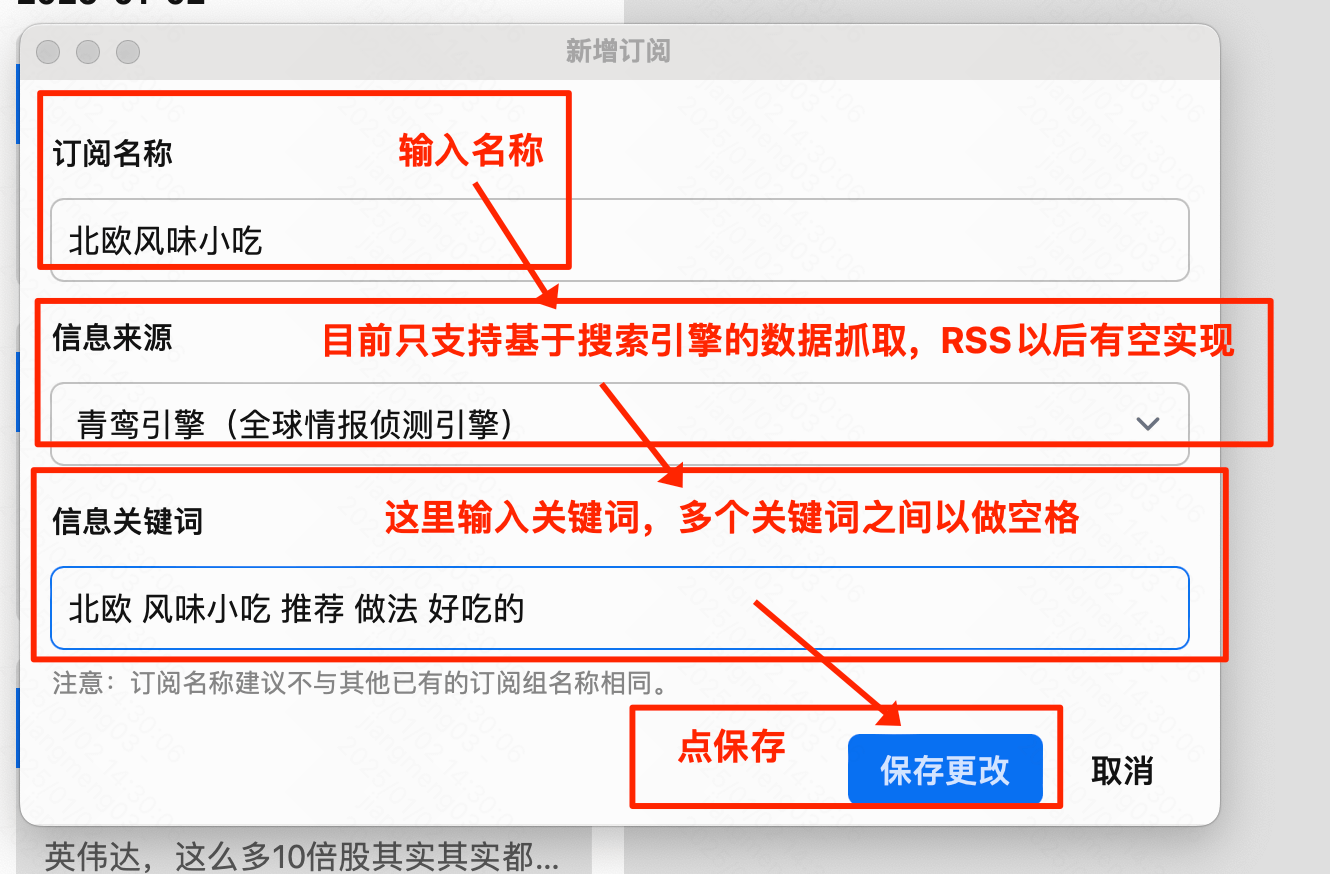
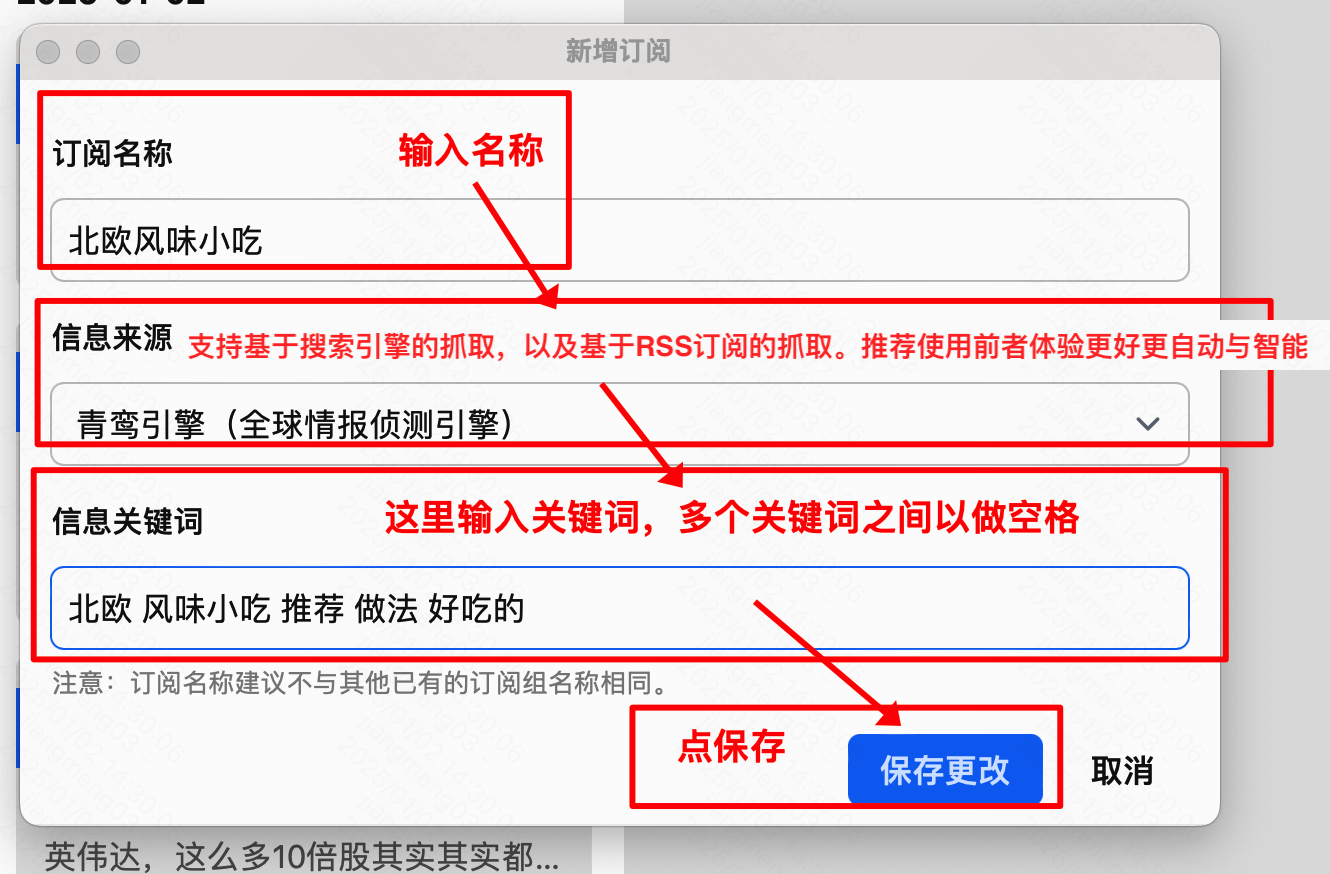
docs: update README files with enhanced feature descriptions

diff --git a/README.md b/README.md
@@ -26,11 +26,13 @@
 
 
 ## What's Saga Reader
-Saga Reader is an AI-driven think tank-style reader that automatically retrieves information from the internet based on user-specified topics and preferences. It uses cloud or local large models to summarize and provide guidance, and it includes an AI-driven interactive companion reading function, allowing you to discuss and exchange ideas with AI about the content you've read.
+**Saga Reader** is an AI-driven think tank-style reader that automatically retrieves information from the internet based on user-specified topics and preferences. It uses cloud or local large models to summarize and provide guidance, and it includes an AI-driven interactive companion reading function, allowing you to discuss and exchange ideas with AI about the content you've read.
 
-Saga Reader is completely free and open-source, meaning all data is securely stored on your own computer and is not controlled by third-party service providers. Additionally, you can manage your subscription keywords based on your interests and preferences without being disturbed by advertisements and commercialized content.
+**Saga Reader** is completely free and open-source, meaning all data is securely stored on your own computer and is not controlled by third-party service providers. Additionally, you can manage your subscription keywords based on your interests and preferences without being disturbed by advertisements and commercialized content.
 
-Download it from [website](https://aiqino.netlify.app?s=github_download)!
+❤ Like **Saga Reader**? Star it 🌟 or [Sponsor the Developer](https://github.com/sponsors/sopaco)! ❤
+
+⏬ Download it now from the [official website](https://aiqino.netlify.app?s=github_download)! Compatible with Windows, Mac, and Linux systems, it runs very smoothly on old computers.
 
 **Thanks to the kind people**
 
@@ -38,19 +40,19 @@ Download it from [website](https://aiqino.netlify.app?s=github_download)!
 
 **Note: Installation and Usage Instructions**
 
-For the installation precautions and the configuration method of the large language model required for the first use, please refer to the [**Help Document**](./docs/how-to-use-en.md).
+📖 For the installation precautions and the configuration method of the large language model required for the first use, please refer to the [**Help Document**](./docs/how-to-use-en.md).
 
-## Snapshots
+# 🌠 Snapshots
 
 ![snapshot-glance](docs/assets/snapshot-glance.webp)
 
-## How it works
+# 🧠 How it works
 
 [![Ask DeepWiki](https://deepwiki.com/badge.svg)](https://deepwiki.com/sopaco/saga-reader)
 
 ![archi-diags-en.png](docs/assets/archi-diags-en.png)
 
-## Key Features
+# 🌟 Key Features
 
 - **Intelligent Content Subscription**: An interest-based content generation engine that supports flexible content subscription settings according to user interests. Users only need to define keywords of interest to independently search for relevant information across the entire network without complex subscription operations.
 - **Efficient Information Retrieval**: A fully automated content engine implemented purely in Rust. It supports multiple retrieval modes such as search and RSS, enabling efficient collection of global internet information.
@@ -63,7 +65,7 @@ For the installation precautions and the configuration method of the large langu
 - **Flexible Reading Experience**: It offers flexible article reading methods. Users can choose to read the full content using the built - in article viewer or switch to their preferred browser for browsing.
 - **Efficient Search and Background Updates**: Supports article search and can silently update content in the background. Relying on Rust technology, it has extremely low memory usage (only 10MB) and excellent operating performance.
 
-## Development
+# 🖥 Development
 ### Prerequisites
 - [**Rust**](https://www.rust-lang.org)
 - [**Bun**](https://bun.sh) (recommended) or NodeJS
@@ -120,7 +122,7 @@ The installation is straight forward, just follow the steps below:
     ```
 <br>
 
-### Monorepo App Architecture
+# 📝 Monorepo App Architecture
 
 We use a combination of Rust, Svelte (SvelteKit), Tauri, SeaORM, SqlLite, TailwindCSS throughout this monorepo.
 
@@ -159,7 +161,7 @@ We use a combination of Rust, Svelte (SvelteKit), Tauri, SeaORM, SqlLite, Tailwi
 +----------------------+       +-----------------------+
 ```
 
-### Contribute
+# 🤝 Contribute
 
 Help improve Saga Reader by reporting bugs or submitting feature requests through [GitHub Issues](https://github.com/sopaco/saga-reader/issues).
 
@@ -173,7 +175,7 @@ Similarly, there are some features in wunderlist that need to be improved.
 
 If you enjoy using this app, consider supporting its development by donating through [GitHub Sponsors](https://github.com/sponsors/sopaco), [Paypal](https://paypal.me/skyronj), or [Alipay](https://aiqino.netlify.app/uprise-assets/alipay.jpg).
 
-### Developed with
+# ⚛ Developed with
 
 - [Rust](https://github.com/rust-lang/rust)
 - [Tauri](https://github.com/tauri-apps/tauri)
@@ -182,10 +184,10 @@ If you enjoy using this app, consider supporting its development by donating thr
 - [Skeleton](https://github.com/skeletonlabs/skeleton)
 - [sea-orm](https://github.com/SeaQL/sea-orm)
 
-### License
-MIT, A copy of the license is provided in the [LICENSE](./LICENSE) file.
+# 🪪 License
+**MIT**. A copy of the license is provided in the [LICENSE](./LICENSE) file.
 
-### About Me
+# 👨 About Me
 
 > 🚀 Help me develop this software better by [sponsoring on GitHub](https://github.com/sponsors/sopaco)
 

diff --git a/README_zh.md b/README_zh.md
@@ -23,28 +23,30 @@
 
 > 🚀 通过 [在 GitHub 上赞助](https://github.com/sponsors/sopaco)让这个软件更好的发展。
 
-## 麒睿智库是什么
-麒睿智库(Saga Reader) 是一个AI驱动的智库式阅读器，根据用户指定的主题和偏好关键词自动从互联网上检索信息。它使用云端或本地大型模型进行总结和提供指导，并包括一个AI驱动的互动阅读伴读功能，允许您与AI讨论和交换阅读内容的想法。
+# 麒睿智库是什么
+📖 **麒睿智库(Saga Reader)** 是一个AI驱动的智库式阅读器，根据用户指定的主题和偏好关键词自动从互联网上检索信息。它使用云端或本地大型模型进行总结和提供指导，并包括一个AI驱动的互动阅读伴读功能，允许您与AI讨论和交换阅读内容的想法。
 
-麒睿智库 完全免费和开源，这意味着所有数据都安全地存储在您自己的计算机上，不受第三方服务提供商的控制。此外，您可以根据自己的兴趣和偏好管理订阅关键词，而不会受到广告和商业化内容的打扰。
+🆓 **麒睿智库** 完全免费和开源，这意味着所有数据都安全地存储在您自己的计算机上，不受第三方服务提供商的控制。此外，您可以根据自己的兴趣和偏好管理订阅关键词，而不会受到广告和商业化内容的打扰。
 
-从[官方网站](https://aiqino.netlify.app?s=github_download)下载！
+❤ 喜欢 **麒睿智库**? 点亮小星星 🌟 或 [赞助开发者](https://github.com/sponsors/sopaco)! ❤
+
+⏬ 现在就从[官方网站](https://aiqino.netlify.app?s=github_download)下载！兼容 Windows、Mac 和 Linux 系统，在老电脑上也非常流畅。
 
 **注意：安装与使用说明**
 
-安装注意事项与初次使用需要的大模型配置方法，详见[**帮助文档**](./docs/how-to-use-zh.md)。
+📖 安装注意事项与初次使用需要的大模型配置方法，详见[**帮助文档**](./docs/how-to-use-zh.md)。
 
-## 截图
+# 🌠 界面
 
 ![snapshot-glance](docs/assets/snapshot-glance.webp)
 
-## 工作原理
+# 🧠 工作原理
 
 [![Ask DeepWiki](https://deepwiki.com/badge.svg)](https://deepwiki.com/sopaco/saga-reader)
 
 ![archi-diags-en.png](docs/assets/archi-diags-en.png)
 
-## 功能与特性
+# 🌟 功能与特性
 
 - **智能内容订阅**：基于兴趣的内容生成引擎，支持根据用户兴趣灵活设置内容订阅。用户只需定义感兴趣的关键词，即可全网自主搜索相关信息，无需复杂的订阅操作。
 - **高效信息抓取**：采用纯 Rust 实现的全自动内容引擎，支持搜索和 RSS 等多种抓取模式，可高效采集全球互联网信息。
@@ -57,7 +59,7 @@
 - **灵活阅读体验**：提供灵活的文章阅读方式，用户可选择使用内置文章查看器阅读完整内容，也能切换到偏好的浏览器进行浏览。
 - **高效搜索更新**：支持文章搜索功能，可在后台静默更新内容。依托 Rust 技术，内存占用极小（仅 10MB），运行性能卓越。
 
-## 开发
+# 🖥 开发
 ### 前提条件
 - [**Rust**](https://www.rust-lang.org)
 - [**Bun**](https://bun.sh) (推荐) or NodeJS
@@ -114,7 +116,7 @@
     ```
 <br>
 
-### 核心模块说明
+# 📝 核心模块说明
 
 项目使用了Rust、Svelte（SvelteKit）、Tauri、SeaORM、SqlLite、TailwindCSS等技术。
 
@@ -152,7 +154,7 @@
 +----------------------+       +-----------------------+
 ```
 
-### 贡献
+# 🤝 贡献
 
 通过[GitHub Issues](https://github.com/sopaco/saga-reader/issues)报告错误或提出功能请求，帮助使麒睿智库变得更好。
 
@@ -165,7 +167,7 @@
 
 如果您喜欢使用这个应用程序，请考虑通过[GitHub赞助商](https://github.com/sponsors/sopaco)、[Paypal](https://paypal.me/skyronj)或[支付宝](https://aiqino.netlify.app/uprise-assets/alipay.jpg)捐款支持其开发。
 
-### 使用以下技术开发
+# ⚛ 使用以下技术开发
 
 - [Rust](https://github.com/rust-lang/rust)
 - [Tauri](https://github.com/tauri-apps/tauri)
@@ -174,14 +176,14 @@
 - [Skeleton](https://github.com/skeletonlabs/skeleton)
 - [sea-orm](https://github.com/SeaQL/sea-orm)
 
-### 许可证
-MIT，协议的副本说明保留在[LICENSE](./LICENSE)文件中。
+# 🪪 许可证
+**MIT**，协议的副本说明保留在[LICENSE](./LICENSE)文件中。
 
 **🙏感谢大家的支持，你们是国产开源的历史见证者**
 
 [![Stargazers repo roster for @sopaco/saga-reader](https://reporoster.com/stars/sopaco/saga-reader)](https://github.com/sopaco/saga-reader/stargazers)
 
-### 关于我
+# 👨 关于我
 
 > 🚀 通过 [在 GitHub 上赞助我](https://github.com/sponsors/sopaco)让这个软件更好的发展。
 

diff --git a/docs/how-to-use-en.md b/docs/how-to-use-en.md
@@ -20,6 +20,12 @@ sudo xattr -rd com.apple.quarantine /Applications/Qi Rui Think Tank.app
 
 ### Initial Configuration Steps
 **1. Configure the AI service. The program will summarize and interpret the articles through the AI service.**
+
+Three modes are available for you to choose the one that suits you best:
+- Local Large Model: A local large model deployed based on Ollama.
+- Cloud Large Model: Supports mainstream large models, i.e., any large model service compatible with the OpenAI API can be configured. Refer to the documentation of the large model service you are using.
+- Zhipu AI (Free): A free cloud large model service provided by ZhipuAI.
+
 ![](assets/how-to-use-settings-zh.png)
 
 ### Configure the Subscription Group
@@ -30,9 +36,16 @@ sudo xattr -rd com.apple.quarantine /Applications/Qi Rui Think Tank.app
 ![](assets/how-to-use-add-feed-zh.png)
 
 **4. Fill in the Subscription Configuration**
+
++ Support information crawling based on internet engines.
++ Support RSS subscription sources.
+
 ![](assets/how-to-use-edit-feed-zh.png)
 
 ### Q & A
+Q: Where does the subscription content come from?
+A: It supports intelligent crawling based on search engines. If you are used to using RSS, you can also add a subscription and select "RSS feed source" in the "Information Source"
+
 Q: How is the subscribed content updated?
 A: The program will update automatically. If you need to refresh manually, you can click the refresh button in the interface. The program will update the data automatically. If you want to manually trigger the update of a subscription, you can click this button.
 

diff --git a/docs/how-to-use-zh.md b/docs/how-to-use-zh.md
@@ -23,6 +23,11 @@ sudo xattr -rd com.apple.quarantine /Applications/麒睿智库.app
 
 **1、配置AI服务，程序会通过AI服务对文章做总结和解读**
 
+三种模式可供选择，选择适合你的方式
+- 本地大模型：基于Ollama部署的本地大模型。
+- 云端大模型：支持主流大模型，即可以配置任何与OpenAI API兼容的大模型服务，具体参照你所使用的大模型服务文档。
+- 智谱AI（免费）：由知名清华校企、国内头部大模型公司清华智谱提供的免费云端大模型服务。
+
 ![](assets/how-to-use-settings-zh.png)
 
 ### 配置订阅组
@@ -37,9 +42,15 @@ sudo xattr -rd com.apple.quarantine /Applications/麒睿智库.app
 
 **4、填写订阅配置**
 
++ 支持基于互联网引擎的信息抓取。
++ 支持RSS订阅源。
+
 ![](assets/how-to-use-edit-feed-zh.png)
 
 ### Q & A
+Q：订阅内容是从哪里来的？
+A：支持基于搜索引擎的智能抓取，如果你习惯使用RSS，同样可以新增订阅时候在“信息来源”中选择“RSS订阅源”
+
 Q：订阅内容是如何更新的？
 A：程序会自动更新，如果需要手动刷新，可以点击界面中的刷新按钮，程序会自动更新数据，如果要手动触发一个订阅的更新可点击这个按钮。
 
